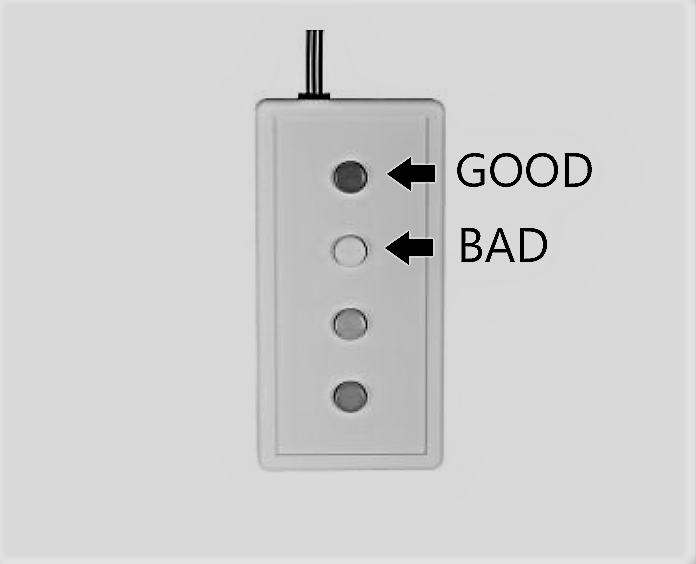
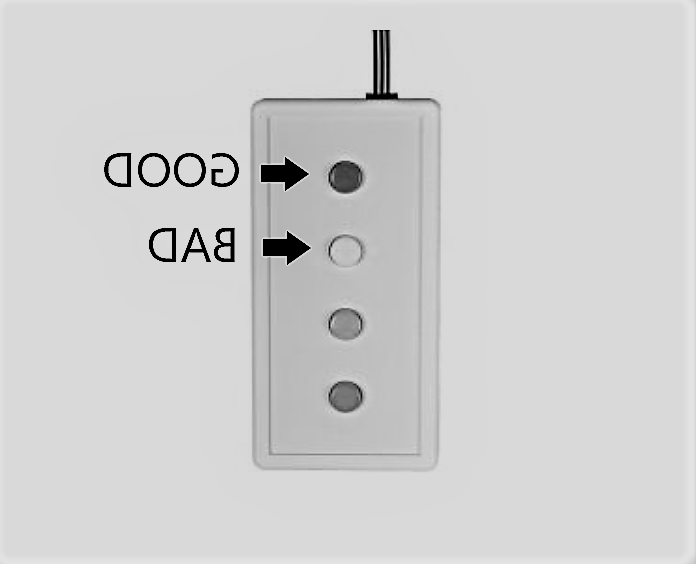
Removed horizontal flip and put mirrored images into main script folders

diff --git a/Scanning/Manipulation_check/depth_manipulation_check.m b/Scanning/Manipulation_check/depth_manipulation_check.m
@@ -81,7 +81,6 @@ p.SCREEN.BUFFER_ID.RIGHT = 1;
 % p.IMAGES.VERTICAL_SHIFT = 0; %number of PIXELS, positive is down, negative is up
 p.IMAGES.EXPECTED_WIDTH = 1920;
 p.IMAGES.EXPECTED_HEIGHT = 1080;
-p.IMAGES.FLIP_HORIZONTAL = true;
 
 %fixation
 p.FIXATION.SHOW = true;
@@ -561,11 +560,6 @@ end
 for f = 1:length(d.image_filename_lookup)
     images(f).filename = d.image_filename_lookup{f};
     image = imread([p.PATH.IMAGE images(f).filename]);
-    
-    %flip?
-    if p.IMAGES.FLIP_HORIZONTAL
-        image = image(:, end:-1:1, :);
-    end
     
     %resize
     if p.IMAGES.RESIZE_FACTOR ~= 1

diff --git a/Scanning/FOPSR_LOC/RunExperiment.m b/Scanning/FOPSR_LOC/RunExperiment.m
@@ -81,7 +81,6 @@ p.SCREEN.BUFFER_ID.RIGHT = 1;
 %image
 p.IMAGES.EXPECTED_WIDTH = 1920;
 p.IMAGES.EXPECTED_HEIGHT = 1080;
-p.IMAGES.FLIP_HORIZONTAL = true;
 
 %fixation
 p.FIXATION.SHOW = true;
@@ -549,11 +548,6 @@ end
 for f = 1:length(d.image_filename_lookup)
     images(f).filename = d.image_filename_lookup{f};
     image = imread([p.PATH.IMAGE images(f).filename]);
-    
-    %flip?
-    if p.IMAGES.FLIP_HORIZONTAL
-        image = image(:, end:-1:1, :);
-    end
     
     %resize
     if p.IMAGES.RESIZE_FACTOR ~= 1
